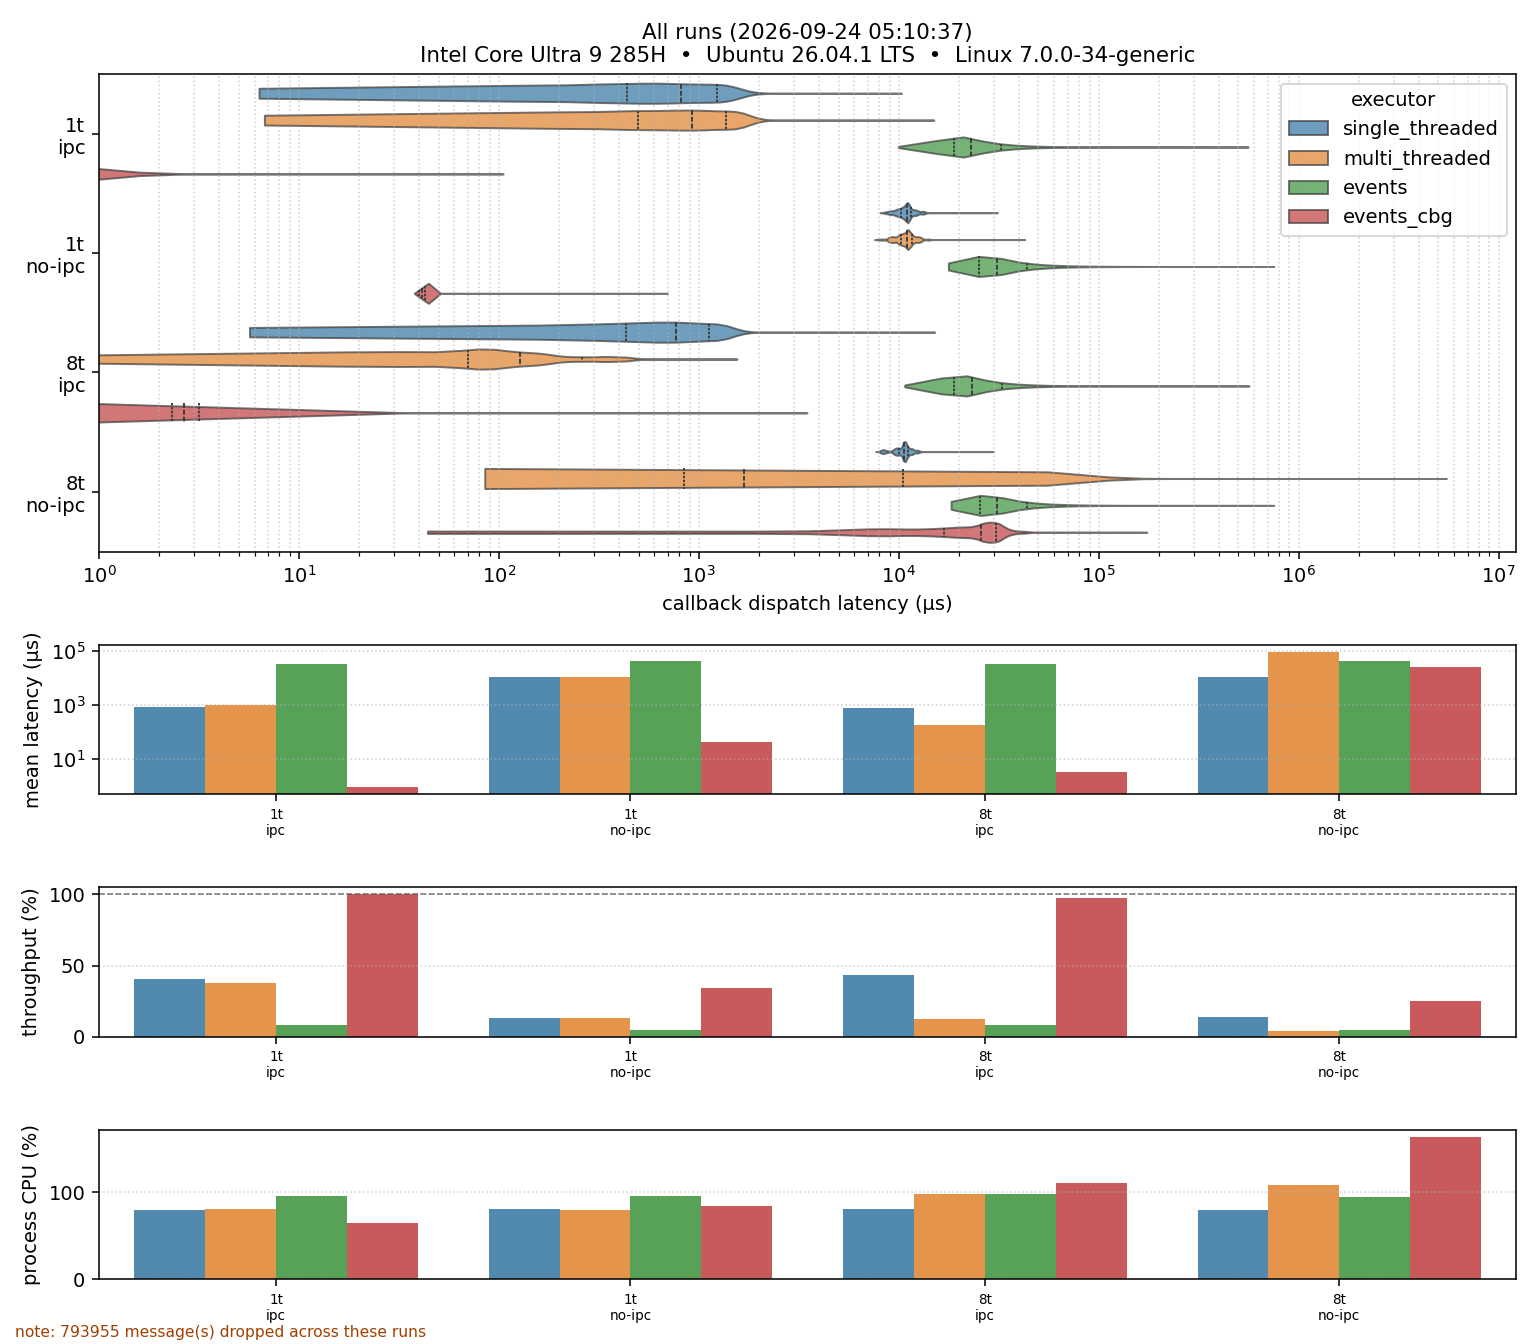
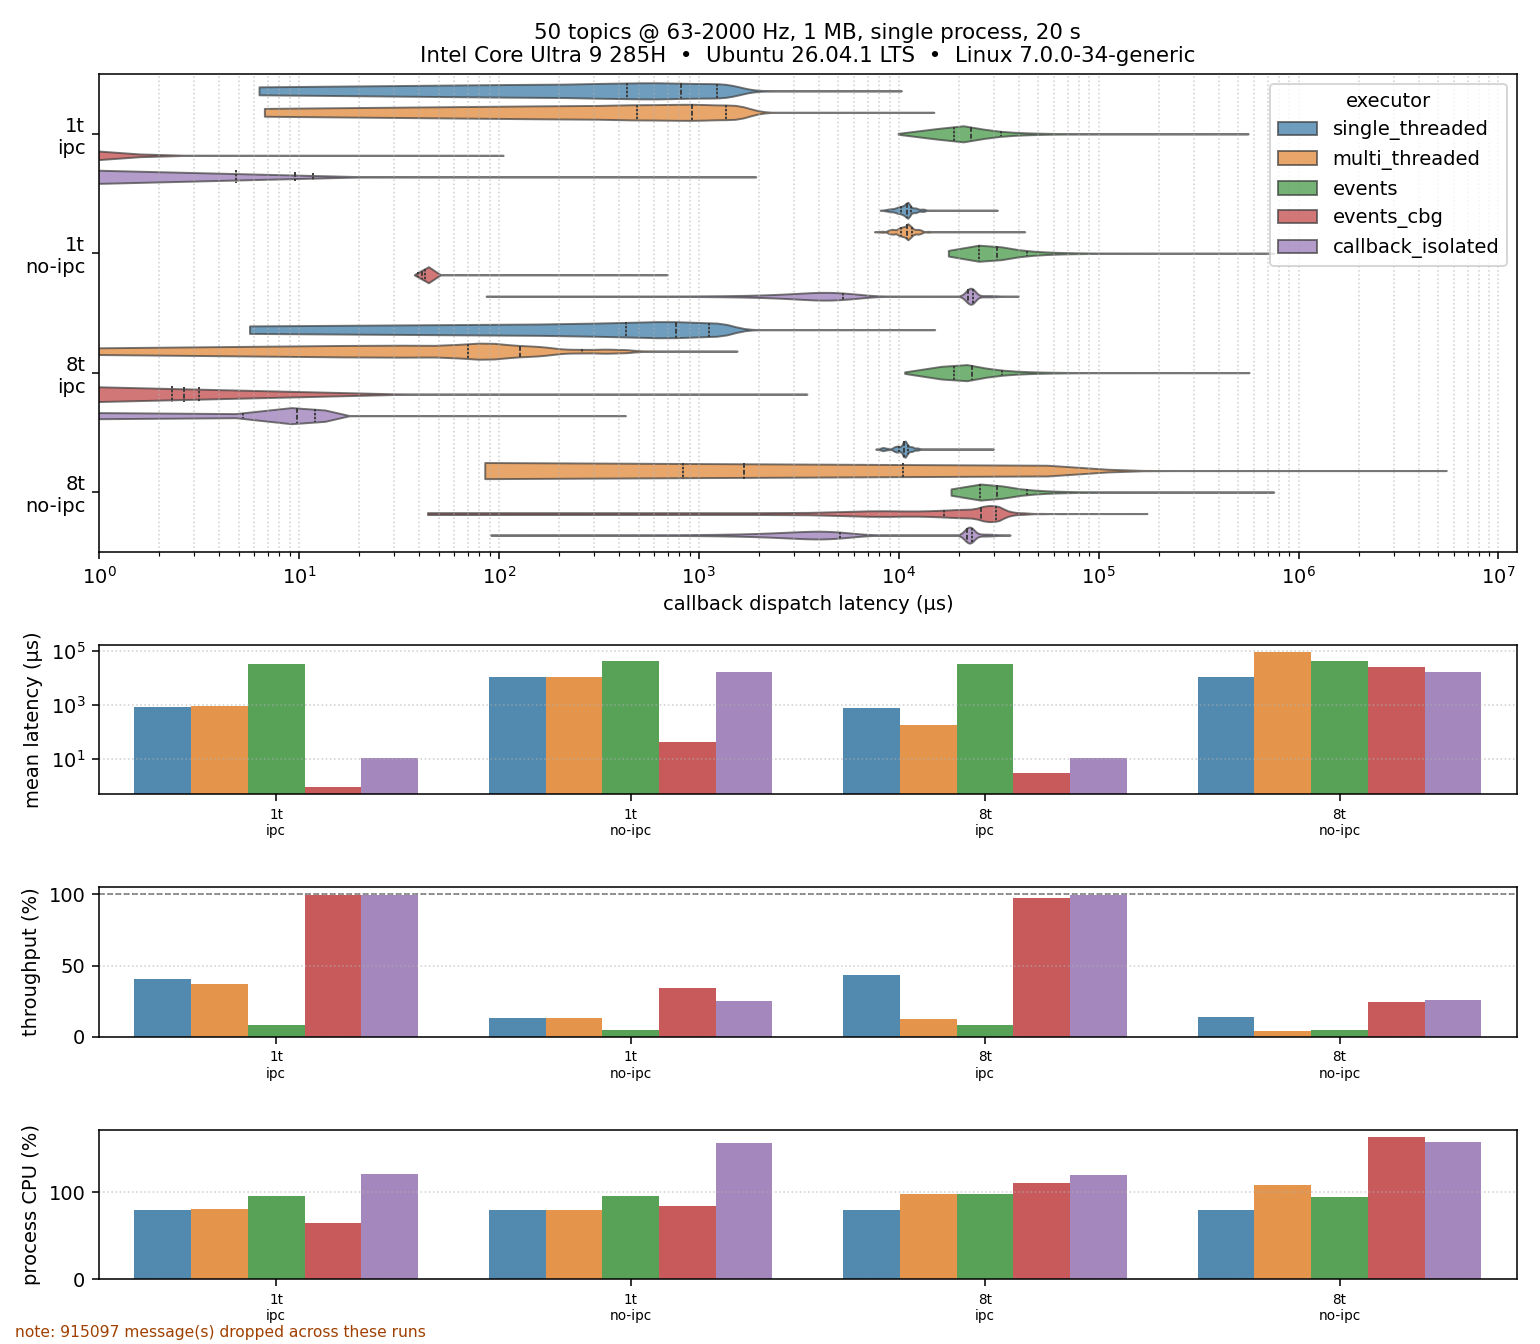
Add callback_isolated to results

diff --git a/README.md b/README.md
@@ -50,7 +50,9 @@ Matches the topology in the [Polymath write-up][polymath].
 
 | executor | threads | ipc | throughput | mean latency | CPU |
 |---|---|---|---|---|---|
-| **events_cbg** | 1 | on | **100.0%** | ~0 ms | 64% |
+| **events_cbg** | 1 | on | **100.0%** | ~0 ms | **64%** |
+| callback_isolated | 1 | on | 99.5% | 0.01 ms | 121% |
+| callback_isolated | 8 | on | 99.4% | 0.01 ms | 120% |
 | events_cbg | 8 | on | 97.8% | ~0 ms | 110% |
 | single_threaded | 8 | on | 43.6% | 0.79 ms | 80% |
 | single_threaded | 1 | on | 40.3% | 0.85 ms | 80% |
@@ -58,6 +60,8 @@ Matches the topology in the [Polymath write-up][polymath].
 | multi_threaded | 8 | on | 12.1% | 0.18 ms | 98% |
 | events | 1 | on | 8.0% | 31.94 ms | 95% |
 | events_cbg | 1 | off | 34.2% | 0.04 ms | 84% |
+| callback_isolated | 8 | off | 25.7% | 17.02 ms | 157% |
+| callback_isolated | 1 | off | 25.0% | 16.84 ms | 157% |
 | events_cbg | 8 | off | 24.7% | 24.69 ms | 163% |
 | single_threaded | 8 | off | 13.5% | 10.57 ms | 80% |
 | single_threaded | 1 | off | 13.0% | 10.97 ms | 80% |
@@ -65,13 +69,33 @@ Matches the topology in the [Polymath write-up][polymath].
 | events | 1 | off | 4.5% | 42.90 ms | 96% |
 | multi_threaded | 8 | off | 4.0% | 93.02 ms | 108% |
 
-- `events_cbg` at one thread is the only configuration that keeps up, and it
-  does so at the *lowest* CPU of the set.
+- `events_cbg` at one thread is the only configuration to reach 100%, and it
+  does so at the lowest CPU of the set — roughly half what `callback_isolated`
+  needs for the same throughput.
+- `callback_isolated` is a close second on throughput but costs ~2× the CPU. It
+  also gets a structural advantage here that the others do not: in a single
+  process it hands the publisher node its own thread, rather than sharing one
+  executor with the subscriptions.
 - Eight threads makes everything worse except `single_threaded`, which ignores
   the setting. `multi_threaded` drops 12.9% → 4.0% and mean latency goes
   11 ms → 93 ms: contention, not parallelism.
-- The experimental `events` is the worst of the four. `events_cbg` is not an
+- The experimental `events` is the worst of the five. `events_cbg` is not an
   incremental improvement on it.
+
+All of the above use one shared `mutually_exclusive` group, which is the only
+like-for-like setting — `callback_isolated` then gets one worker thread like
+everyone else. Given a group per subscription it spawns 50 instead:
+
+| callback_isolated | threads | ipc | throughput | mean latency | CPU |
+|---|---|---|---|---|---|
+| `per_entity` | 8 | on | 99.3% | 0.02 ms | 121% |
+| `per_entity` | 1 | on | 98.0% | 0.02 ms | 121% |
+| `per_entity` | 1 | off | 27.5% | 0.25 ms | 283% |
+| `per_entity` | 8 | off | 25.5% | 0.26 ms | 272% |
+
+Fifty threads buy a large latency win without IPC (16.84 ms → 0.25 ms) but
+almost no extra throughput, at nearly double the CPU: this topology is
+bandwidth-bound, not dispatch-bound.
 
 An unsaturated sweep tells you much less — below roughly 210 µs everything ties
 on the middleware floor, and with one shared callback group `callback_isolated`
